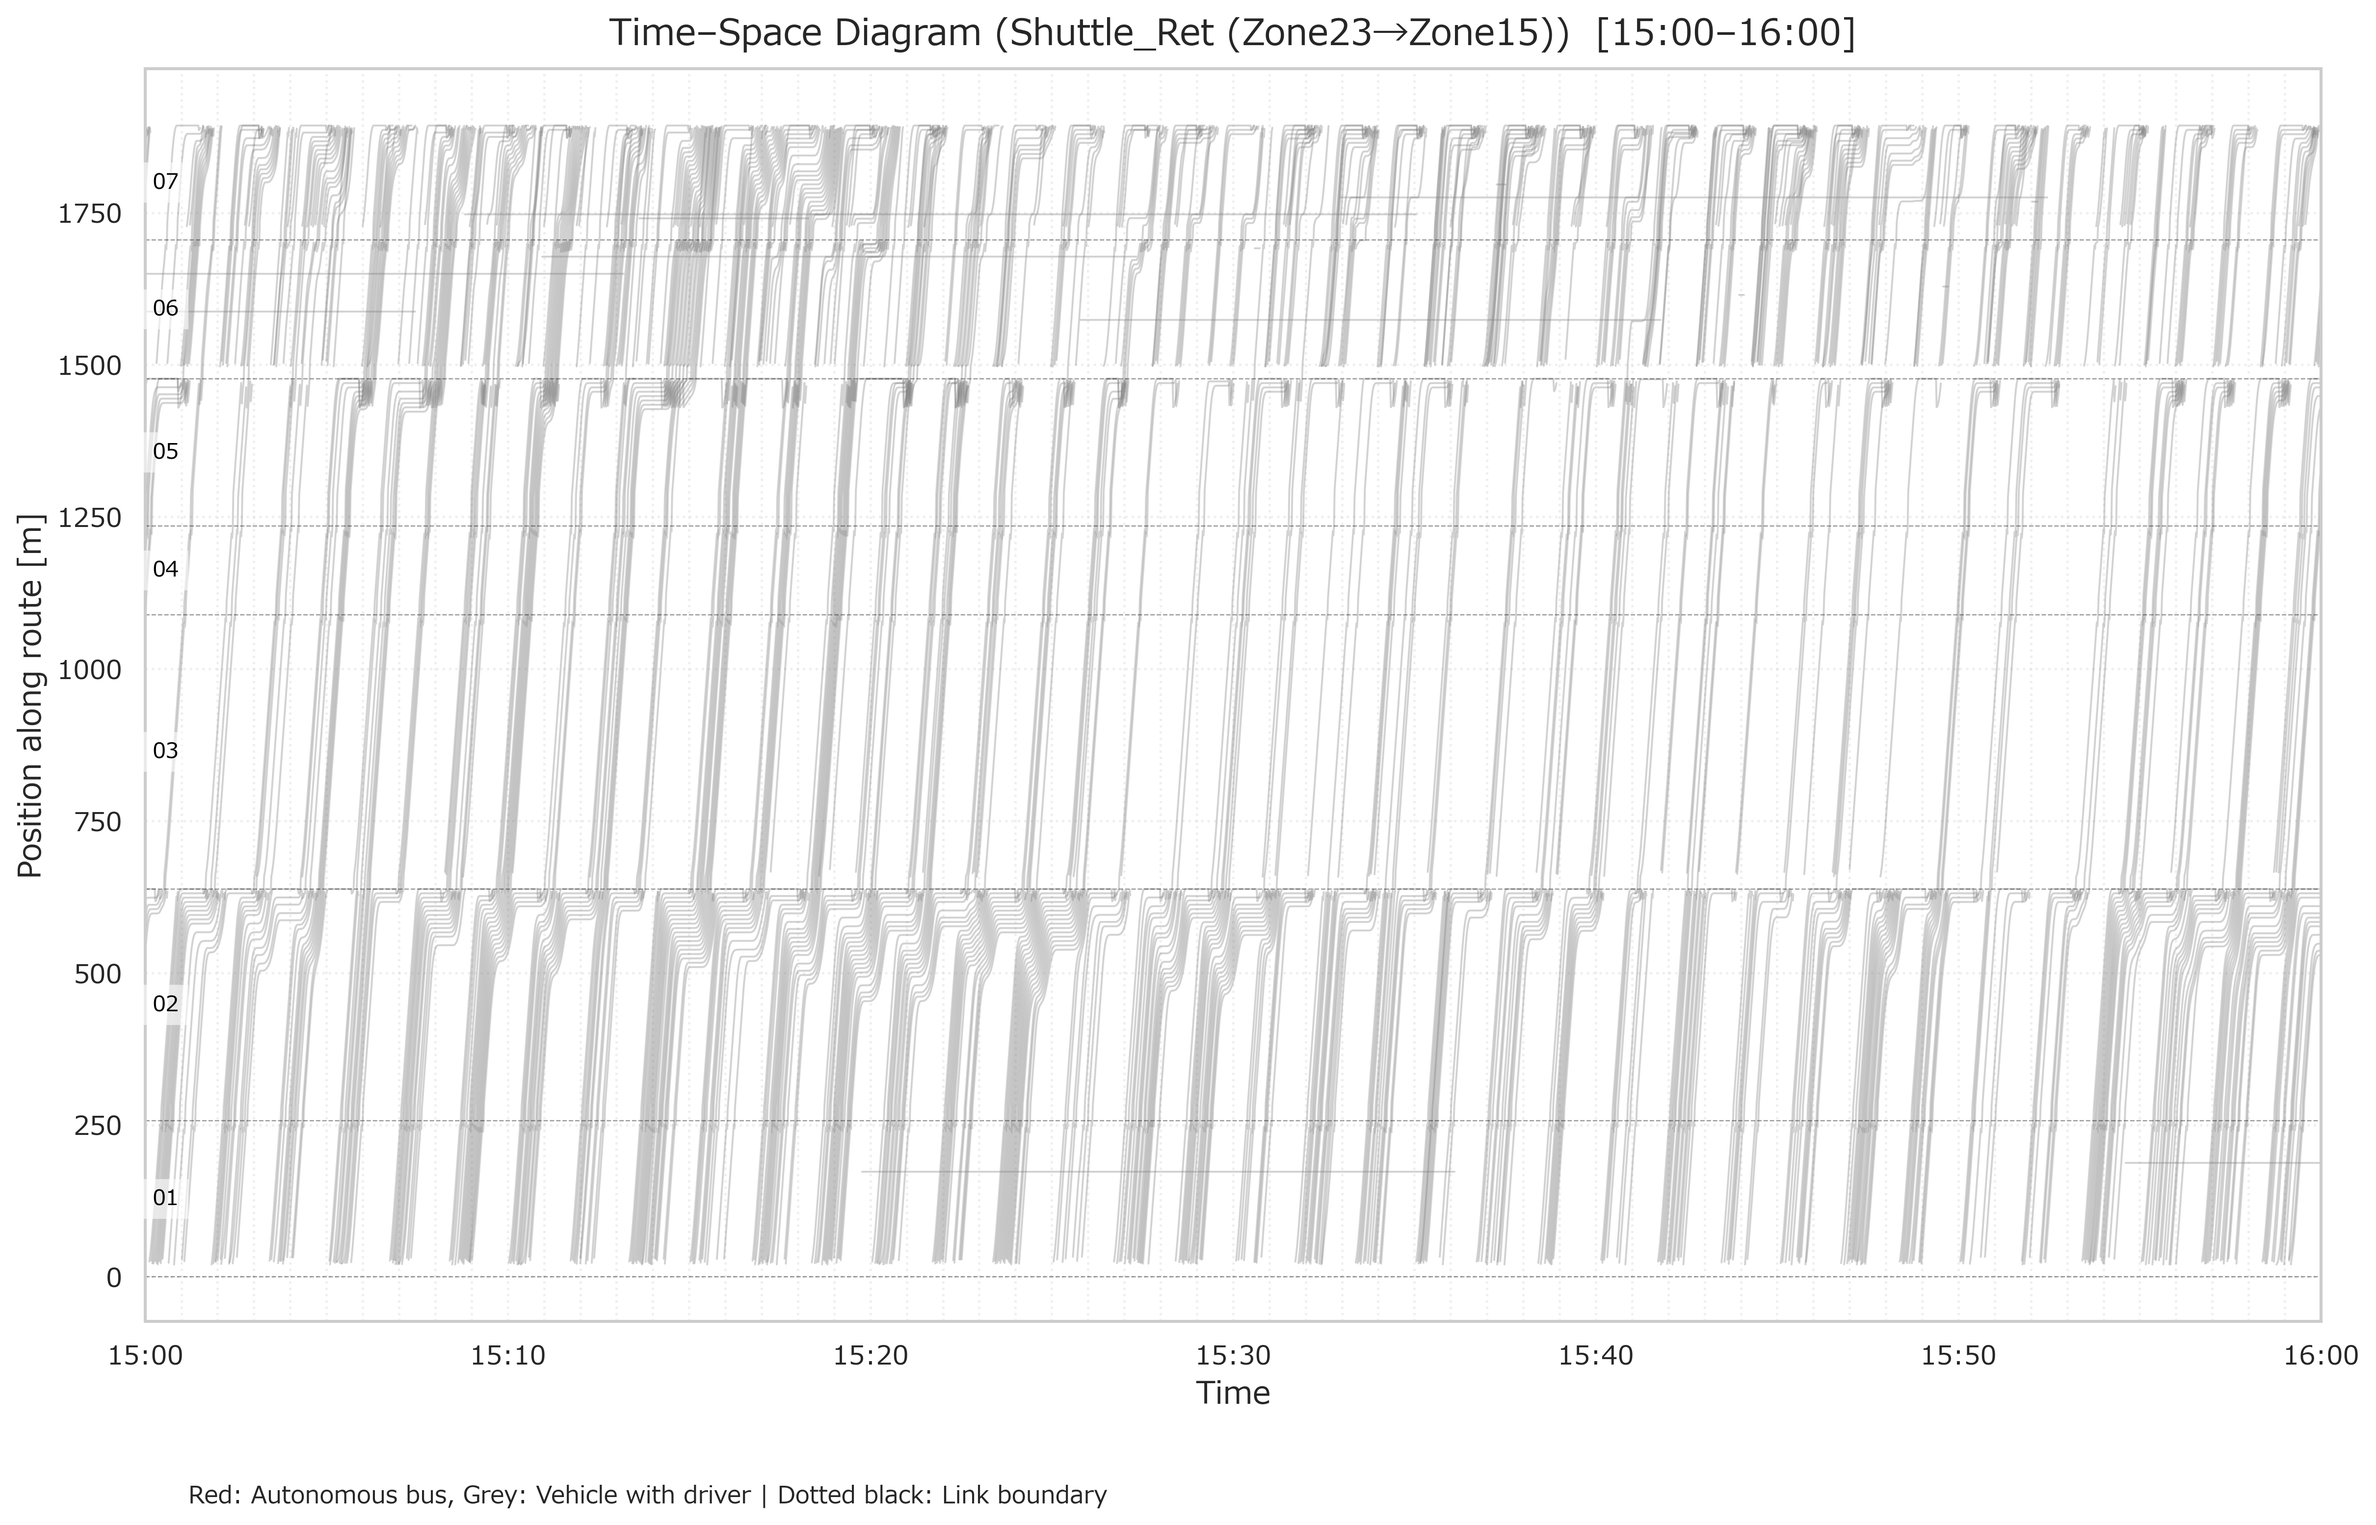
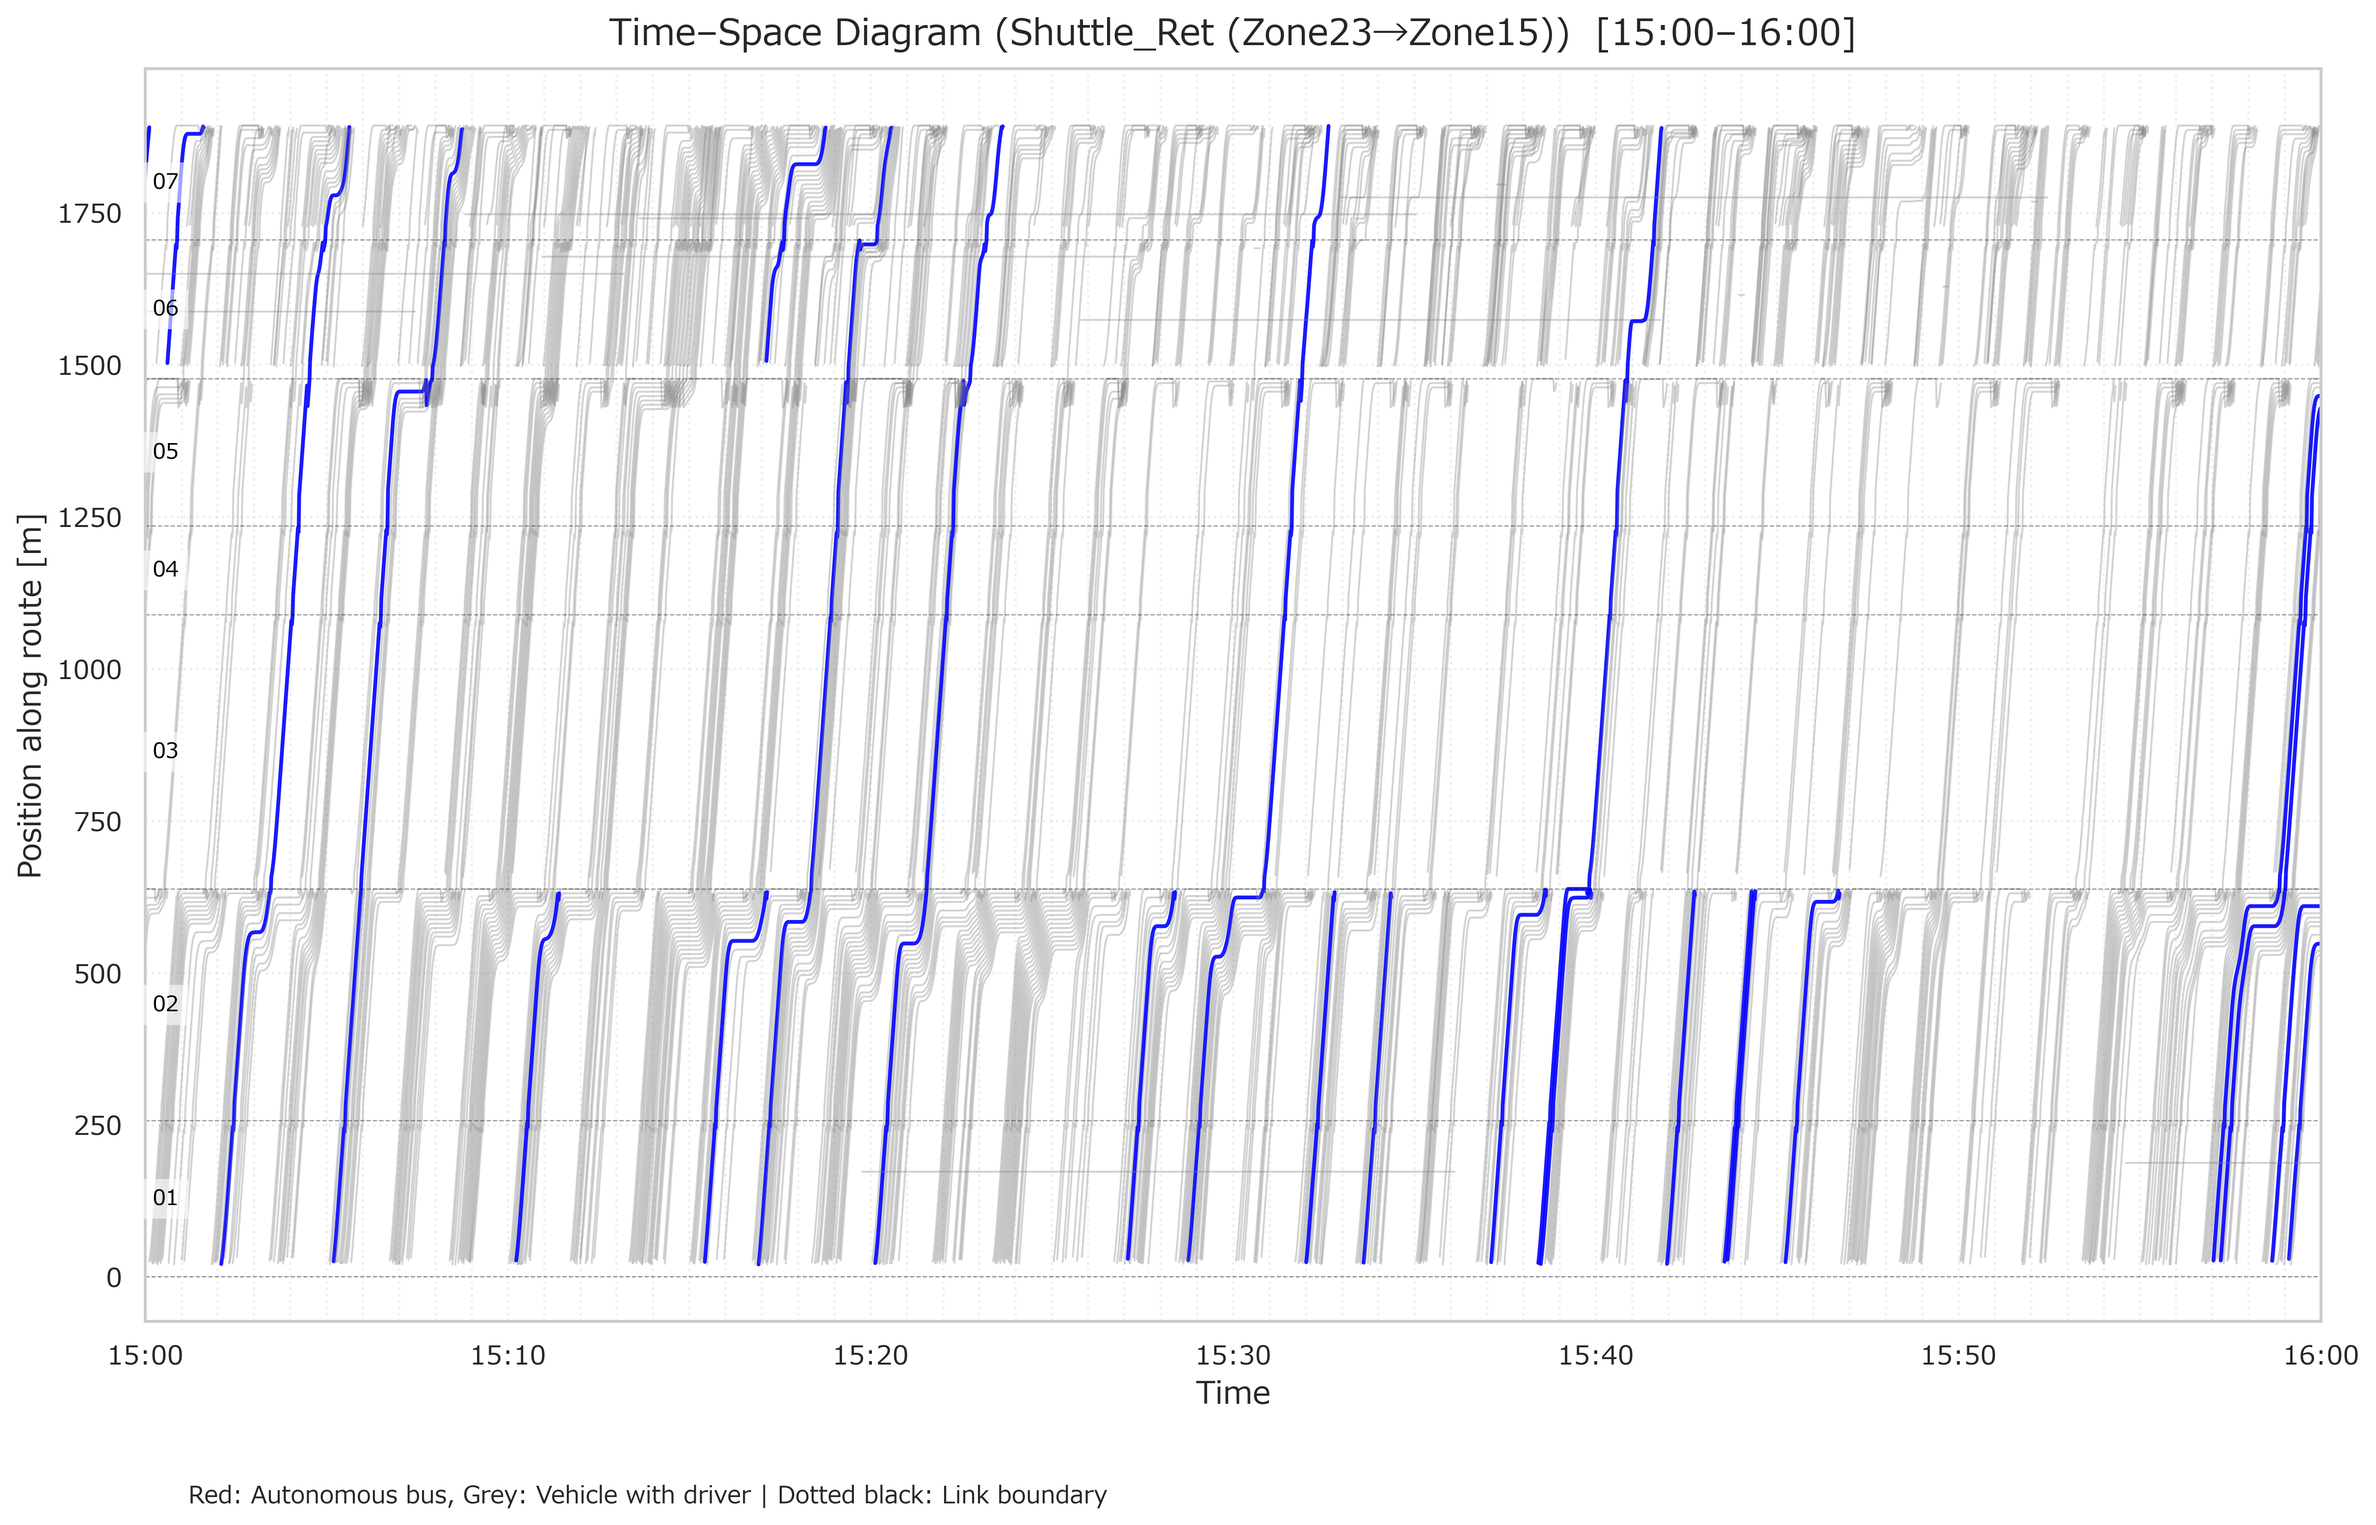
20251028

diff --git a/拡張シナリオ/simcase22/no01/diagram_tats_revised.py b/拡張シナリオ/simcase22/no01/diagram_tats_revised.py
@@ -14,7 +14,7 @@ import numpy as np
 # ===== ファイル設定 =====
 record_path = "C:\\Users\\OguchiLab\\OneDrive\\デスクトップ\\randy_utokyo\\拡張シナリオ\\simcase22\\no01\\vpos_no01_r06_ext.csv"
 volspd_path = "C:\\Users\\OguchiLab\\OneDrive\\デスクトップ\\randy_utokyo\\拡張シナリオ\\simcase22\\no01\\rand06\\Case1_no01_r06_volspd.csv"
-auto_type = "I_09_1204235410499"
+auto_type = "I_09_1204235410434"
 
 
 # ===== Shuttleルートリンク =====
@@ -79,7 +79,8 @@ def make_timespace(df, links, direction_name, outfile_prefix):
         fig, ax = plt.subplots(figsize=(14, 9), dpi=200)
         for vid, g in df_hour.groupby("VID"):
             g = g.sort_values("SimTime")
-            color = "red" if g["Type"].iloc[0] == auto_type else "gray"
+            # 自動運転車を青、それ以外をグレーに
+            color = "blue" if g["Type"].iloc[0] == auto_type else "gray"
             ax.plot(
                 g["SimTime"] / 60,  # 分単位
                 g["Ypos"],
@@ -87,6 +88,7 @@ def make_timespace(df, links, direction_name, outfile_prefix):
                 lw=0.8 if color == "gray" else 1.6,
                 alpha=0.35 if color == "gray" else 0.9,
             )
+
 
         # === リンク境界線と番号 ===
         for i, lid in enumerate(links):
